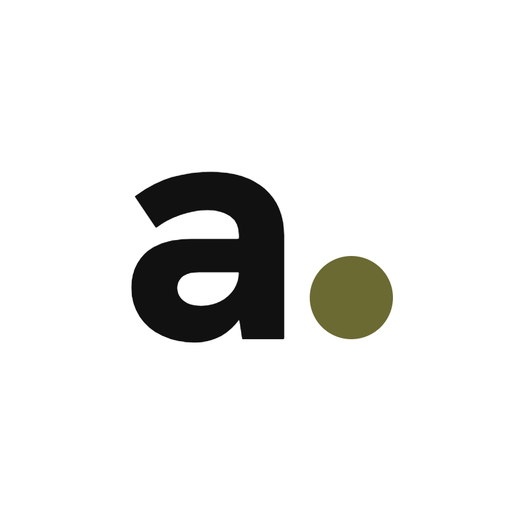
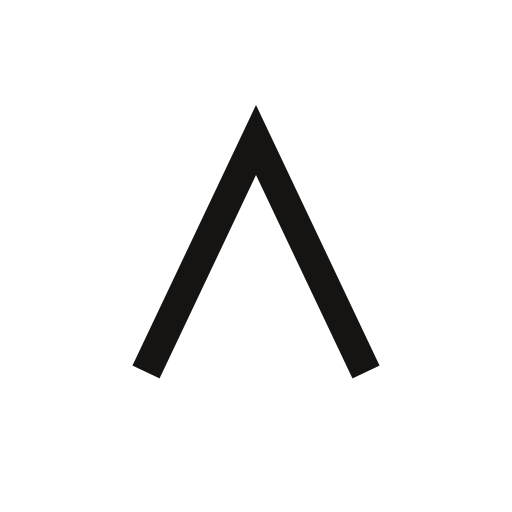
New ΛZYLO wordmark; live photos shown uncropped
- Logo: thin geometric "ΛZYLO" drawn as SVG strokes (matches the product photography),
  draws itself once on load; Λ favicon/apple icon; wordmark SVG/PNG in public/brand
- Live photos section: photos keep their own shape (no cropping), 2 per row on phones,
  4 on desktop; "View all photos" only when more are hidden

Changed region(s): [[0.25, 0.2188, 0.7812, 0.75]]

diff --git a/src/components/product/ProductView.tsx b/src/components/product/ProductView.tsx
@@ -426,7 +426,7 @@ function RealSpaces({ images, name }: { images: string[]; name: string }) {
   const [open, setOpen] = useState<number | null>(null);
   const tones = ["#D8C9B1", "#CBBBA3", "#E2D7C4", "#C9BEA9", "#DCD0BE"];
   const count = images.length;
-  const shown = count ? images.slice(0, 5) : [];
+  const shown = count ? images.slice(0, 8) : [];
   return (
     <section id="real-spaces" className="scroll-mt-40 px-4 pt-16 md:px-12 md:pt-24">
       <div className="flex flex-col justify-between gap-5 md:flex-row md:items-end">
@@ -456,19 +456,22 @@ function RealSpaces({ images, name }: { images: string[]; name: string }) {
         </div>
       ) : (
         <>
-          <div className="mt-8 grid grid-cols-2 gap-3 md:grid-cols-6">
+          {/* Photos keep their own shape (e.g. 4:5) — nothing is cropped. */}
+          <div className="mt-8 grid grid-cols-2 items-start gap-3 md:grid-cols-4">
             {shown.map((src, i) => (
-              <button key={i} type="button" onClick={() => setOpen(i)} className={clsx("group relative overflow-hidden rounded-tile", i < 2 ? "md:col-span-3" : "md:col-span-2", i === 4 && "col-span-2 md:col-span-2")}>
-                <img src={src} alt={`${name} — live photo ${i + 1}`} loading="lazy" className="h-[160px] w-full object-cover transition-transform duration-500 group-hover:scale-105 md:h-[280px]" />
+              <button key={i} type="button" onClick={() => setOpen(i)} className="group relative overflow-hidden rounded-tile bg-bg2">
+                <img src={src} alt={`${name} — live photo ${i + 1}`} loading="lazy" className="block h-auto w-full transition-transform duration-500 group-hover:scale-[1.03]" />
                 <span className="absolute right-3 top-3 flex size-9 items-center justify-center rounded-full bg-white/90 opacity-0 transition-opacity group-hover:opacity-100">
                   <Search size={15} aria-hidden />
                 </span>
               </button>
             ))}
           </div>
-          <Btn kind="outline" className="mt-6" onClick={() => setOpen(0)}>
-            {t("product.viewAllPhotos", { n: count })}
-          </Btn>
+          {count > shown.length && (
+            <Btn kind="outline" className="mt-6" onClick={() => setOpen(0)}>
+              {t("product.viewAllPhotos", { n: count })}
+            </Btn>
+          )}
         </>
       )}
       {open != null && <Lightbox urls={images} start={open} onClose={() => setOpen(null)} label={name} />}

diff --git a/src/components/ui/primitives.tsx b/src/components/ui/primitives.tsx
@@ -192,17 +192,32 @@ export function Divider({ className }: { className?: string }) {
   return <div aria-hidden className={clsx("h-px bg-line", className)} />;
 }
 
-/** Wordmark: lowercase "azylo" in Hanken Grotesk 800 with the round olive dot. */
+/**
+ * Wordmark "ΛZYLO": thin geometric capitals drawn as strokes (the A has no crossbar),
+ * matching the logo on the product photography. `size` sets the cap height scale.
+ */
 export function Logo({ className, light, size = 20 }: { className?: string; light?: boolean; size?: number }) {
-  const fs = Math.round(size * 1.25);
+  const h = Math.round(size * 1.05);
   return (
-    <span
-      className={clsx("az-logo inline-flex items-baseline gap-[2px] lowercase leading-none tracking-[-0.055em]", light ? "text-white" : "text-ink", className)}
-      style={{ fontSize: fs, fontWeight: 800 }}
+    <svg
+      role="img"
+      aria-label="AZYLO"
+      viewBox="0 0 344 64"
+      height={h}
+      width={Math.round((h * 344) / 64)}
+      className={clsx("az-logo inline-block flex-none", light ? "text-white" : "text-ink", className)}
+      fill="none"
+      stroke="currentColor"
+      strokeWidth={7}
+      strokeLinejoin="miter"
+      strokeMiterlimit={10}
     >
-      azylo
-      <span aria-hidden className="az-logo-dot inline-block flex-none rounded-full bg-gold" style={{ width: size * 0.32, height: size * 0.32 }} />
-    </span>
+      <path pathLength={1} d="M2 62 L30 2 L58 62" />
+      <path pathLength={1} d="M80 5 H128 L80 59 H130" />
+      <path pathLength={1} d="M150 2 L176 33 L202 2 M176 33 V62" />
+      <path pathLength={1} d="M227 2 V59 H262" />
+      <circle pathLength={1} cx={312} cy={32} r={27} />
+    </svg>
   );
 }
 

diff --git a/src/app/globals.css b/src/app/globals.css
@@ -167,11 +167,13 @@ a:focus-visible { outline-offset: 4px; border-radius: 8px; }
   color: var(--az-gold-bright);
 }
 
-/* Wordmark: the dot drops in once, then nudges on hover. */
-.az-logo-dot { animation: az-dot-in .9s cubic-bezier(.3, 1.6, .5, 1) .15s both; }
-a:hover .az-logo-dot { animation: az-dot-hop .6s cubic-bezier(.3, 1.6, .5, 1); }
-@keyframes az-dot-in { from { transform: translateY(-120%) scale(.4); opacity: 0; } }
-@keyframes az-dot-hop { 40% { transform: translateY(-45%); } }
+/* Wordmark: the strokes draw themselves once on first load. */
+.az-logo path, .az-logo circle { stroke-dasharray: 1; stroke-dashoffset: 0; animation: az-draw 1.1s cubic-bezier(.6, 0, .2, 1) both; }
+.az-logo :nth-child(2) { animation-delay: .08s; }
+.az-logo :nth-child(3) { animation-delay: .16s; }
+.az-logo :nth-child(4) { animation-delay: .24s; }
+.az-logo :nth-child(5) { animation-delay: .32s; }
+@keyframes az-draw { from { stroke-dashoffset: 1; } }
 
 /* Buttons: the arrow turns to ↗ and the circle grows on hover. */
 .az-btn-ic { transition: transform .35s cubic-bezier(.2, .7, .2, 1); }
